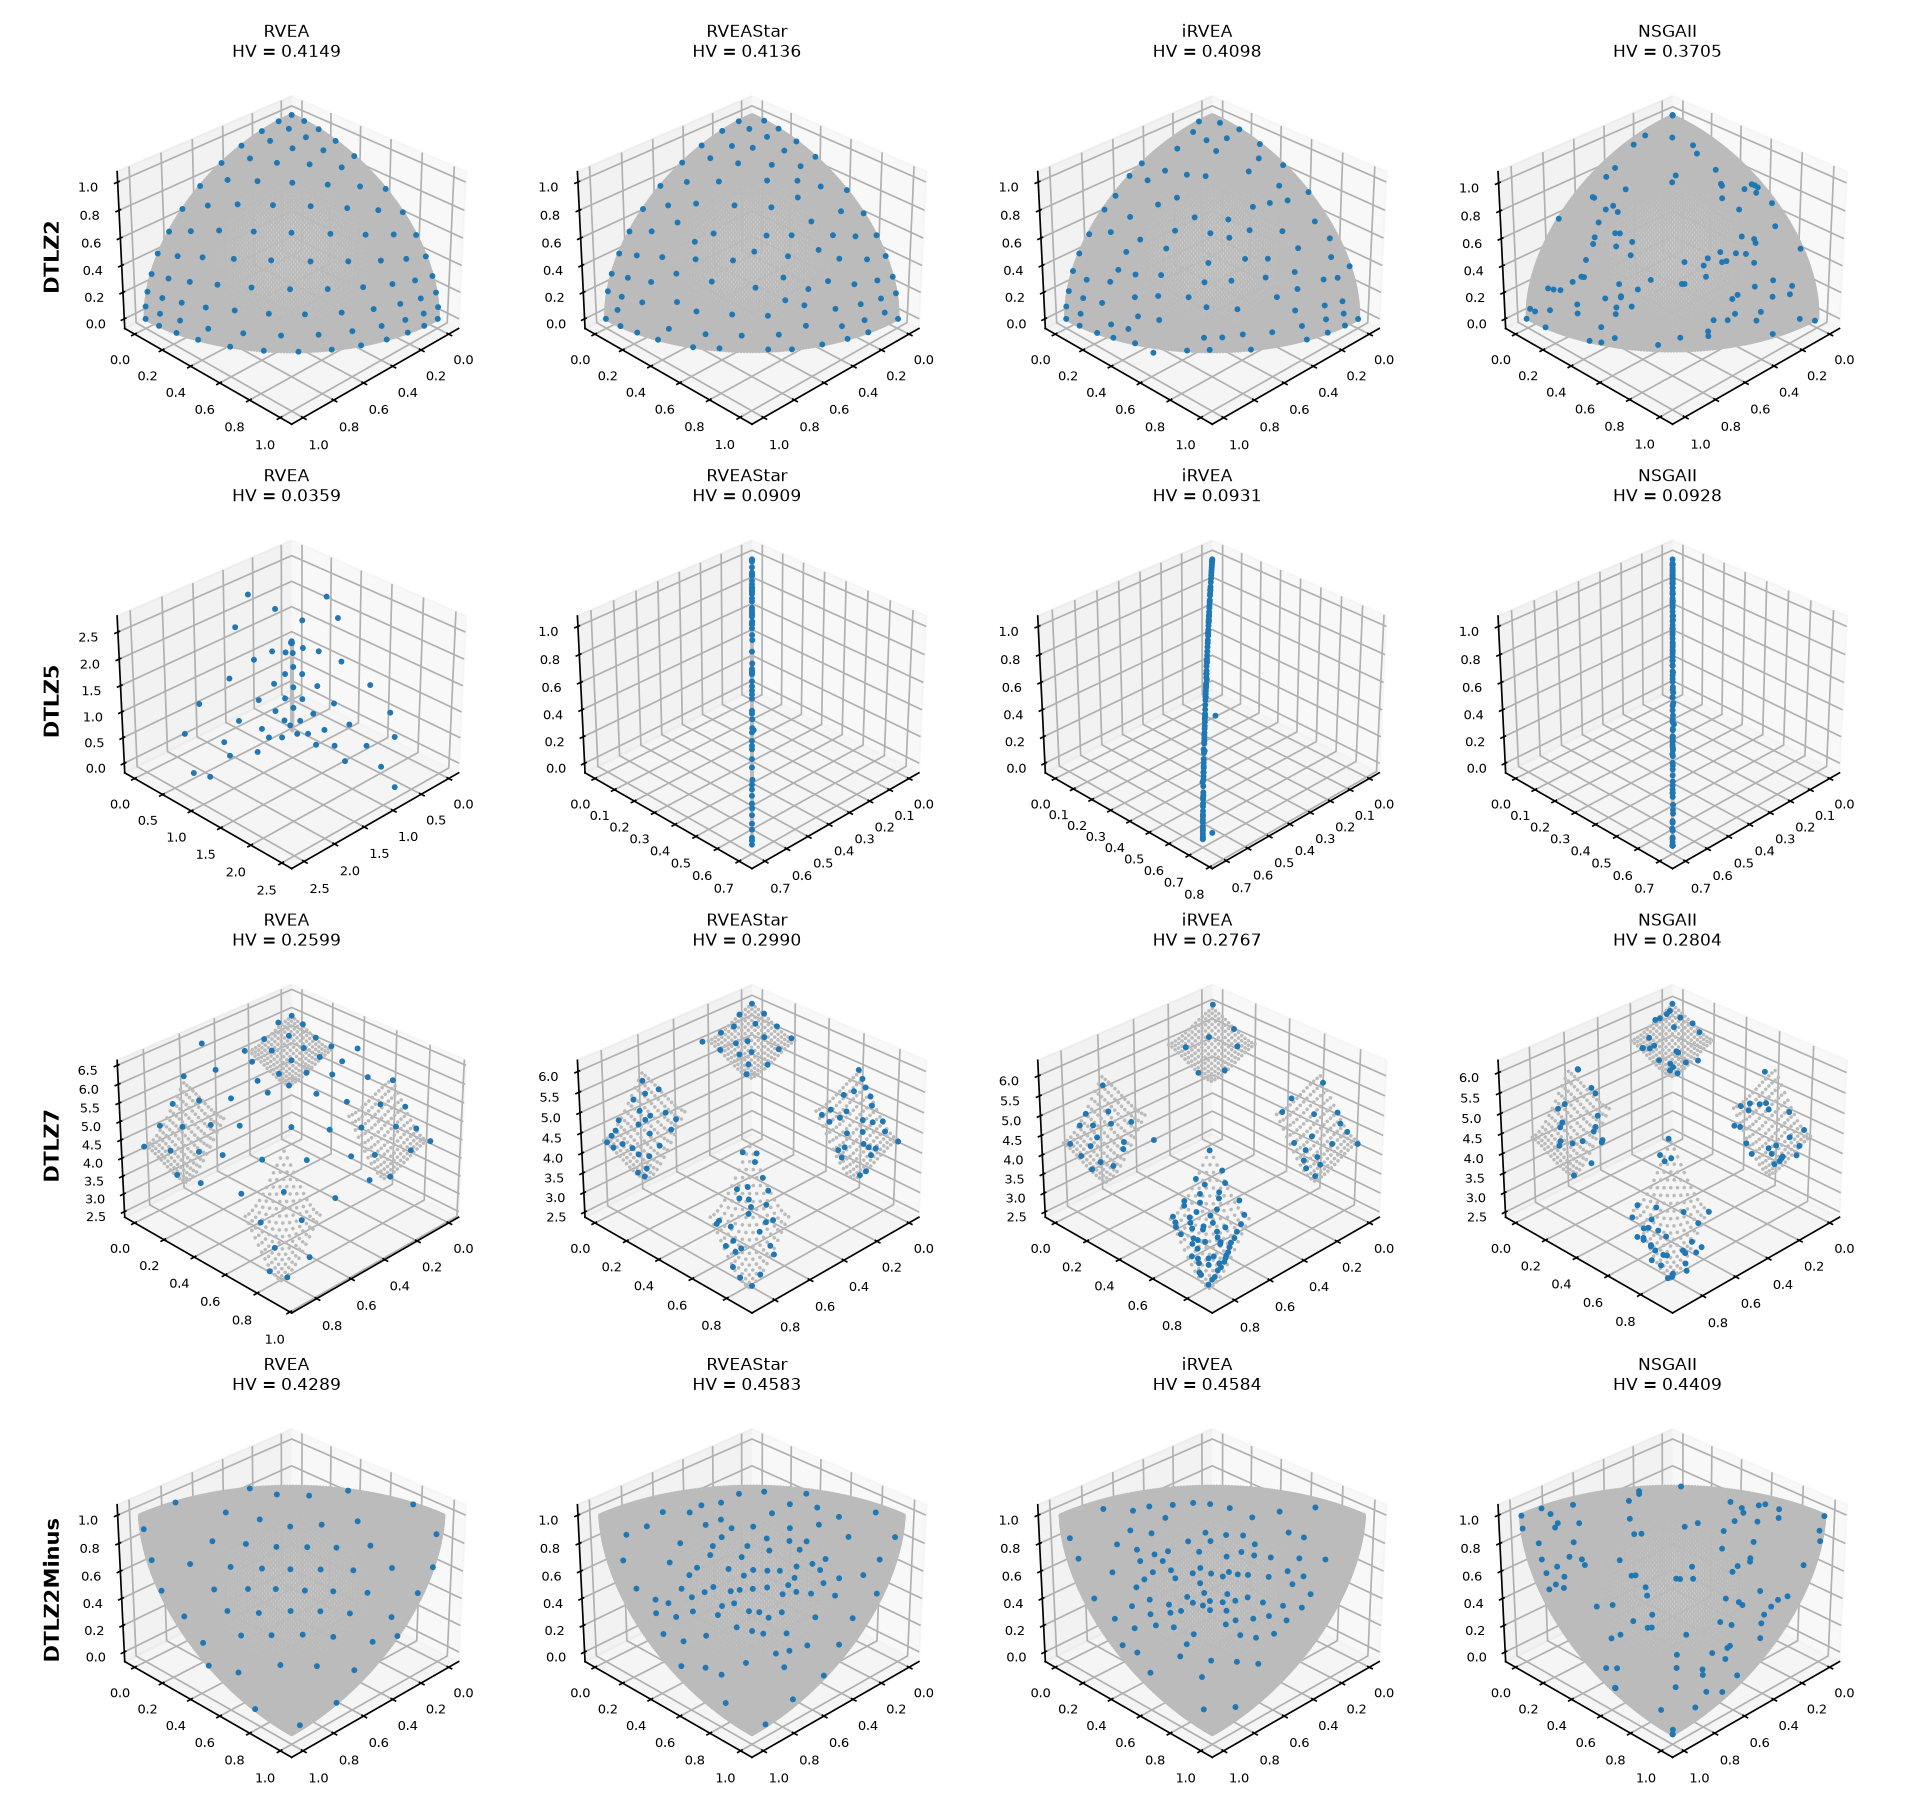
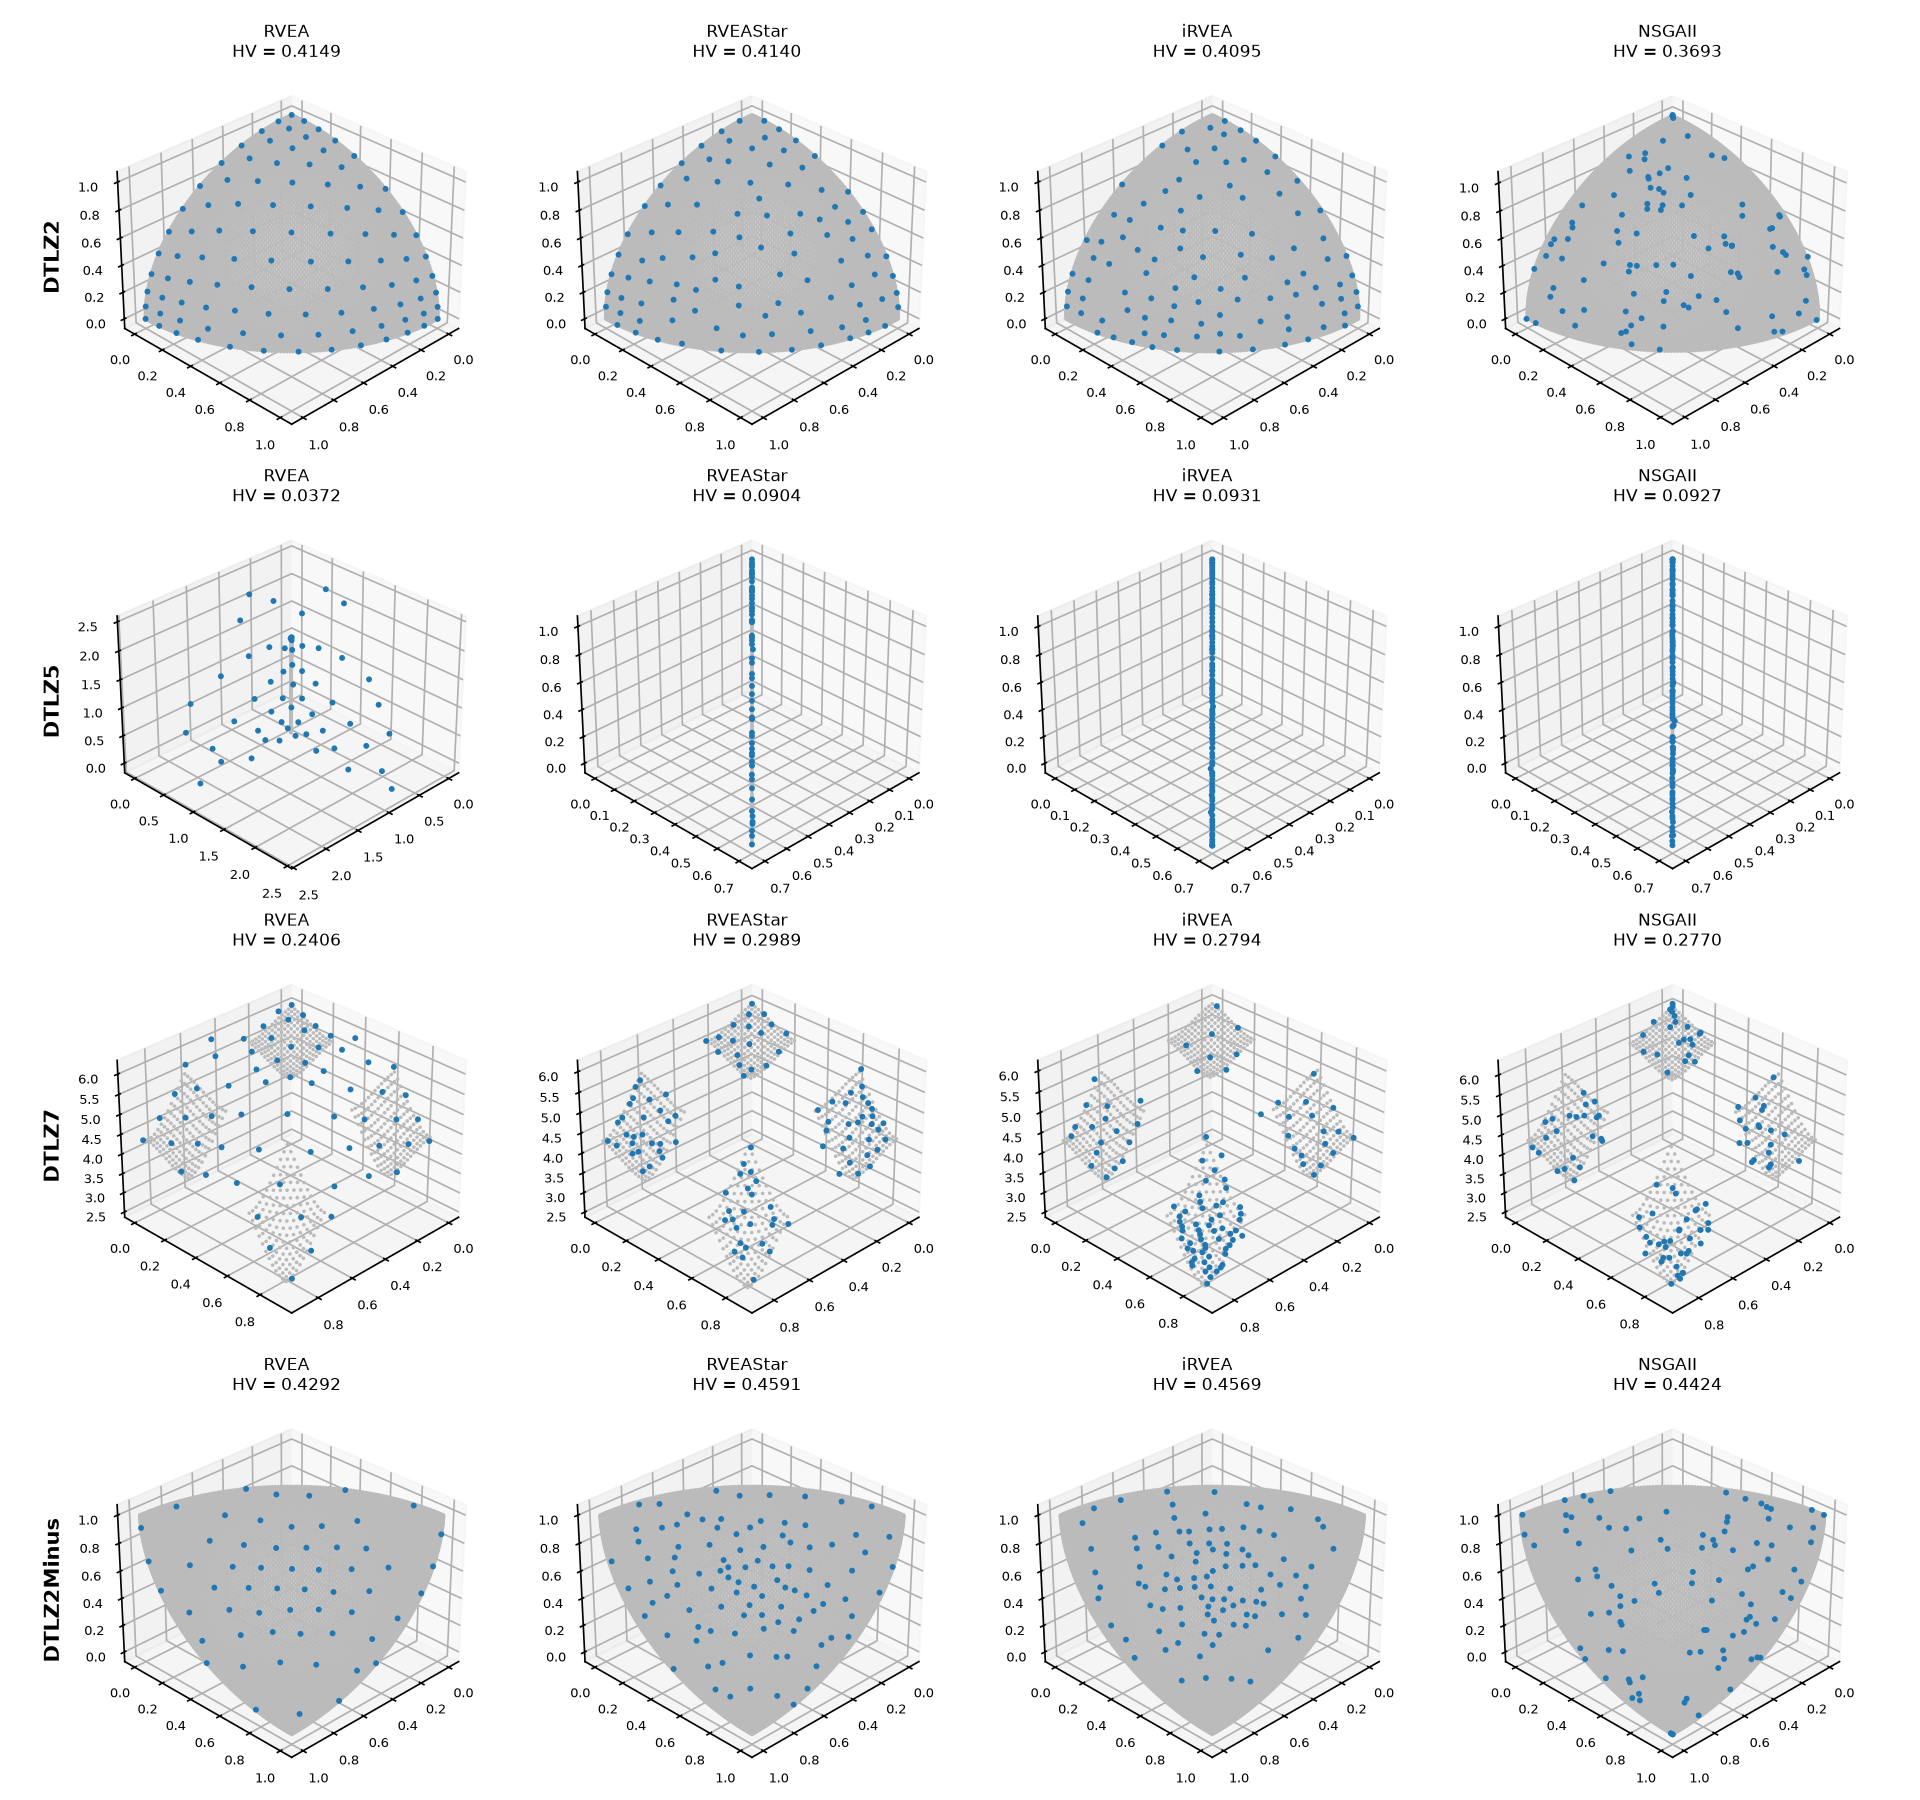
docs: add MaF08 to the RVEA guide and refresh its results
With the decision space of the MaF suite and the 60000 evaluations of the
iRVEA paper, iRVEA is the best of the four algorithms on MaF08 (IGD+ and
hypervolume, significantly), with 100 well-spread solutions. All the
figures and tables of the guide come from a new run of the experiment.

diff --git a/docs/algorithms/rvea.rst b/docs/algorithms/rvea.rst
@@ -15,7 +15,8 @@ RVEA, RVEA* and iRVEA
 In short: **RVEA** spreads its solutions evenly on regular fronts and keeps doing so with many
 objectives, where NSGA-II fails; it does poorly on fronts that do not cover the whole simplex
 (degenerate, disconnected or inverted fronts) and, surprisingly, on the bi-objective ZDT1.
-**RVEA*** and **iRVEA** fix most of those cases at a small cost on regular fronts.
+**RVEA*** and **iRVEA** fix most of those cases at a small cost on regular fronts. On MaF08, a
+problem of the iRVEA paper, iRVEA is the best of the four.
 
 Idea and origin
 ---------------
@@ -135,9 +136,10 @@ The experiment
 --------------
 
 ``RVEAGuide`` compares the three variants, each with its default configuration, with NSGA-II (its
-default configuration too) on six problems chosen for the kind of front they have. Each algorithm
-runs 15 times on each problem, with a population of 100 and 25,000 evaluations (50,000 with six
-objectives):
+default configuration too) on seven problems chosen for the kind of front they have. Each algorithm
+runs 15 times on each problem, with a population of 100. The budget is 25,000 evaluations, except
+for DTLZ2 with six objectives (50,000) and MaF08 (60,000, the budget of the iRVEA paper, which uses
+a population of 105 instead of 100):
 
 .. list-table::
    :header-rows: 1
@@ -161,9 +163,19 @@ objectives):
    * - DTLZ2Minus
      - inverted
      - the front does not fill the simplex the vectors are spread over
+   * - MaF08
+     - the Pareto set is a triangle in a two-dimensional decision space, 3 objectives
+     - a problem of the iRVEA paper, where iRVEA stands out
    * - ZDT1
      - convex, 2 objectives
      - a simple bi-objective reference
+
+MaF08 asks to find a small polygon (its Pareto set, a triangle of side 1.7) in a large decision
+space: the MaF test suite defines its two variables in ``[-10000, 10000]``. jMetal's ``MaF08``
+bounds them to ``[0, 1]``, which contains only a fifth of the triangle, so ``RVEAGuide`` sets the
+bounds of the suite. The reference front with three objectives,
+``resources/referenceFronts/MaF08.3D.csv``, is the image of the whole triangle: 10,011 points
+obtained by evaluating the problem on a lattice of it (all of them nondominated).
 
 .. literalinclude:: ../../src/main/java/org/uma/evolver/example/algorithms/RVEAGuide.java
    :language: java
@@ -185,39 +197,43 @@ test, 0.05), and every other value is significantly worse:
      - iRVEA
      - NSGA-II
    * - DTLZ2
-     - **0.0223** (0.0002)
-     - 0.0236 (0.0006)
-     - 0.0249 (0.0014)
-     - 0.0373 (0.0024)
+     - **0.0223** (0.0003)
+     - 0.0239 (0.0006)
+     - 0.0253 (0.0011)
+     - 0.0374 (0.0019)
    * - DTLZ2 (6 obj.)
-     - **0.1040** (0.0001)
-     - 0.1188 (0.0017)
-     - 0.1323 (0.0068)
-     - 0.8609 (0.1052)
+     - **0.1039** (0.0002)
+     - 0.1188 (0.0027)
+     - 0.1378 (0.0140)
+     - 0.9718 (0.1842)
    * - DTLZ5
-     - 0.0690 (0.0264)
-     - 0.0050 (0.0022)
-     - **0.0030** (0.0002)
+     - 0.0694 (0.0173)
+     - 0.0059 (0.0029)
+     - **0.0030** (0.0003)
      - 0.0037 (0.0002)
    * - DTLZ7
-     - 0.0479 (0.0089)
-     - **0.0243** (0.0014)
-     - 0.0343 (0.0036)
-     - 0.0352 (0.0044)
+     - 0.0579 (0.0110)
+     - **0.0248** (0.0012)
+     - 0.0344 (0.0058)
+     - 0.0366 (0.0030)
    * - DTLZ2Minus
-     - 0.0433 (0.0019)
-     - **0.0303** (0.0008)
-     - 0.0323 (0.0015)
-     - 0.0352 (0.0014)
+     - 0.0433 (0.0012)
+     - **0.0294** (0.0014)
+     - 0.0333 (0.0021)
+     - 0.0355 (0.0023)
+   * - MaF08
+     - 0.0487 (0.0052)
+     - 0.0274 (0.0031)
+     - **0.0236** (0.0008)
+     - 0.0363 (0.0025)
    * - ZDT1
-     - 0.0319 (0.0059)
-     - 0.0039 (0.0002) =
-     - **0.0037** (0.0004)
-     - 0.0038 (0.0003) =
+     - 0.0319 (0.0026)
+     - 0.0039 (0.0003) =
+     - **0.0038** (0.0003)
+     - 0.0039 (0.0003) =
 
-The hypervolume agrees with IGD+ on the first four problems; on DTLZ2Minus, RVEA* and iRVEA, and on
-ZDT1, RVEA*, iRVEA and NSGA-II, are practically tied (hypervolume differences below 0.001). The
-fronts with the median hypervolume of each algorithm:
+The hypervolume names the same best algorithm on every problem, except on ZDT1, where iRVEA and
+NSGA-II are tied in both indicators. The fronts with the median hypervolume of each algorithm:
 
 .. figure:: ../figures/algorithms/rvea-median-fronts-3d.png
    :align: center
@@ -225,6 +241,13 @@ fronts with the median hypervolume of each algorithm:
    :figwidth: 100%
 
    Fronts with the median HV on the three-objective problems (reference front in gray).
+
+.. figure:: ../figures/algorithms/rvea-median-fronts-maf08.png
+   :align: center
+   :alt: Fronts with the median HV of RVEA, RVEA*, iRVEA and NSGA-II on MaF08
+   :figwidth: 100%
+
+   Fronts with the median HV on MaF08.
 
 .. figure:: ../figures/algorithms/rvea-median-fronts-zdt1.png
    :align: center
@@ -239,34 +262,42 @@ Where it works well
 - **Regular fronts, and above all many objectives.** RVEA is the best of the four on DTLZ2 with
   three and with six objectives, with a very small spread between runs, and places its solutions
   evenly on the front (first row of the figure). With six objectives the gap to NSGA-II is the
-  largest of the study: NSGA-II's median hypervolume is 0.003, against 0.716 for RVEA, since Pareto
-  dominance barely discriminates between solutions there. RVEA* and iRVEA are close behind RVEA on
-  these problems.
+  largest of the study: NSGA-II's median hypervolume is 0.0002, against 0.715 for RVEA, since
+  Pareto dominance barely discriminates between solutions there. RVEA* and iRVEA are close behind
+  RVEA on these problems.
 - **Irregular fronts, with the variants.** RVEA* is the best on the disconnected (DTLZ7) and the
   inverted (DTLZ2Minus) fronts, and iRVEA on the degenerate one (DTLZ5), where it also beats
-  NSGA-II. Note that on DTLZ7, the kind of front iRVEA was proposed for, RVEA* does better with
-  these settings, and iRVEA places most of its solutions in one of the four regions.
+  NSGA-II. Note that on DTLZ7, a disconnected front, RVEA* does better than iRVEA with these
+  settings, and iRVEA places most of its solutions in one of the four regions.
+- **MaF08: iRVEA stands out.** With the 60,000 evaluations of the iRVEA paper, it is the best of
+  the four in IGD+ and in hypervolume, significantly better than RVEA*, than NSGA-II and than plain
+  RVEA, and with the smallest spread between runs. It returns 100 solutions spread over the whole
+  surface (figure), while RVEA* returns 95, NSGA-II crowds its solutions at the three tips of the
+  surface, and RVEA returns only 36, some of them away from it.
 
 Where it works poorly
 ---------------------
 
-- **Fronts that do not fill the simplex, with plain RVEA.** On DTLZ5, DTLZ7 and DTLZ2Minus many
-  reference vectors meet no solution: RVEA ends with a median of 57, 65 and 58 solutions instead
-  of 100, and on DTLZ5 it does not even reach the curve (its IGD+ is 14 times RVEA*'s, and varies
-  widely between runs). This is the case RVEA* and iRVEA were designed for, and both fix it.
+- **Fronts that do not fill the simplex, with plain RVEA.** On DTLZ5, DTLZ7, DTLZ2Minus and MaF08
+  many reference vectors meet no solution: RVEA ends with a median of 57, 65, 58 and 36 solutions
+  instead of 100, and on DTLZ5 it does not even reach the curve (its IGD+ is twelve times RVEA*'s,
+  and varies widely between runs). This is the case RVEA* and iRVEA were designed for. iRVEA fixes
+  it completely (100 solutions everywhere); RVEA* improves the IGD+ and returns 100 solutions
+  except on DTLZ5 and MaF08, where it still returns 57 and 95.
 - **ZDT1.** On this simple bi-objective problem RVEA has not converged after 25,000 evaluations
-  (IGD+ 0.032, eight times the others'), although it keeps 100 solutions; RVEA*, iRVEA and NSGA-II
-  reach the front. A likely cause is that the variants add dominance to APD in their selection,
-  while plain RVEA relies on APD alone.
+  (IGD+ 0.032, more than eight times the others'), although it keeps 100 solutions; RVEA*, iRVEA
+  and NSGA-II reach the front. A likely cause is that the variants add dominance to APD in their
+  selection, while plain RVEA relies on APD alone.
 - **The variants on regular fronts.** RVEA* and iRVEA are slightly but significantly worse than
-  RVEA on DTLZ2, and iRVEA's spread between runs is larger with six objectives.
+  RVEA on DTLZ2 and with six objectives, and iRVEA's spread between runs is larger with six
+  objectives.
 
 Tuning notes
 ------------
 
 - ``replacement`` matters most: none of the three variants is best everywhere. When the shape of
-  the front is unknown, RVEA* was the most robust in this study; on regular fronts with many
-  objectives, RVEA.
+  the front is unknown, the variants (RVEA* or iRVEA) are the safer choice in this study; on regular
+  fronts with many objectives, RVEA.
 - ``alpha`` and ``fr`` trade convergence for spread and control how often the vectors adapt; the
   defaults (2 and 0.1) come from the RVEA paper.
 - The population size is fixed by the reference vectors, so it is not tuned; the offspring

diff --git a/docs/changelog.rst b/docs/changelog.rst
@@ -11,6 +11,8 @@ All notable changes to Evolver will be documented in this file.
 Added
 ~~~~~
 
+- Add the reference front of MaF08 with three objectives (``MaF08.3D.csv``), the image of its
+  Pareto set (a triangle in the decision space), used by the RVEA guide
 - Add the :ref:`algorithm guides <algorithm_guides>`, one per base-level algorithm, with where it
   works well and where it works poorly backed by an experiment; the first is the guide of
   :doc:`RVEA, RVEA* and iRVEA <algorithms/rvea>` (``example.algorithms.RVEAGuide``), and
